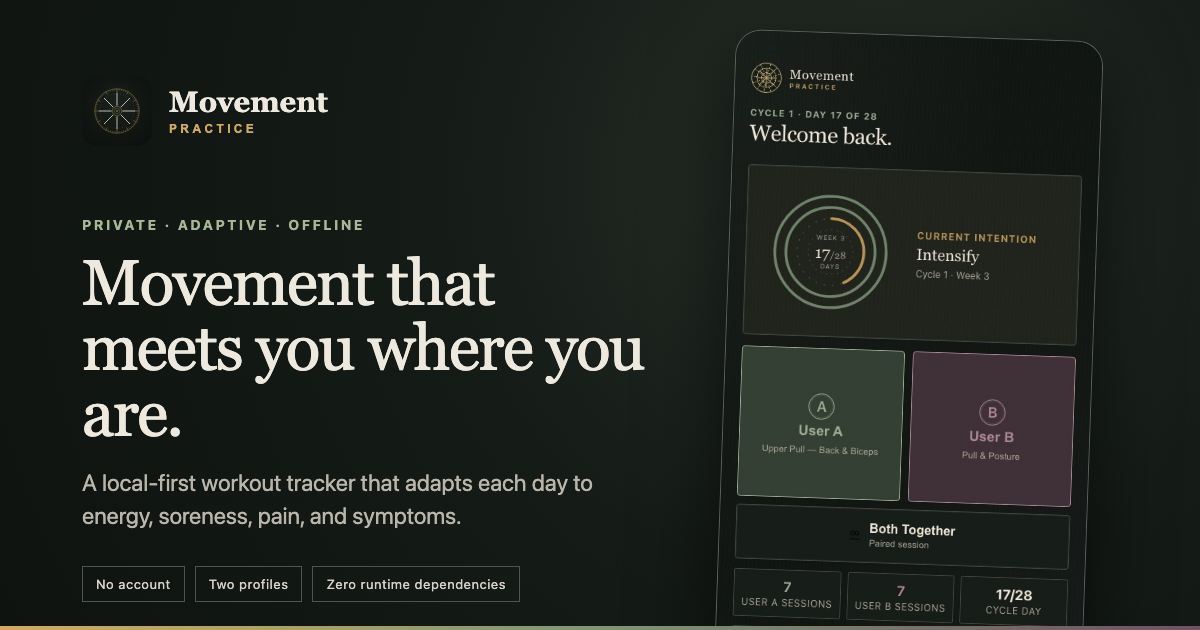
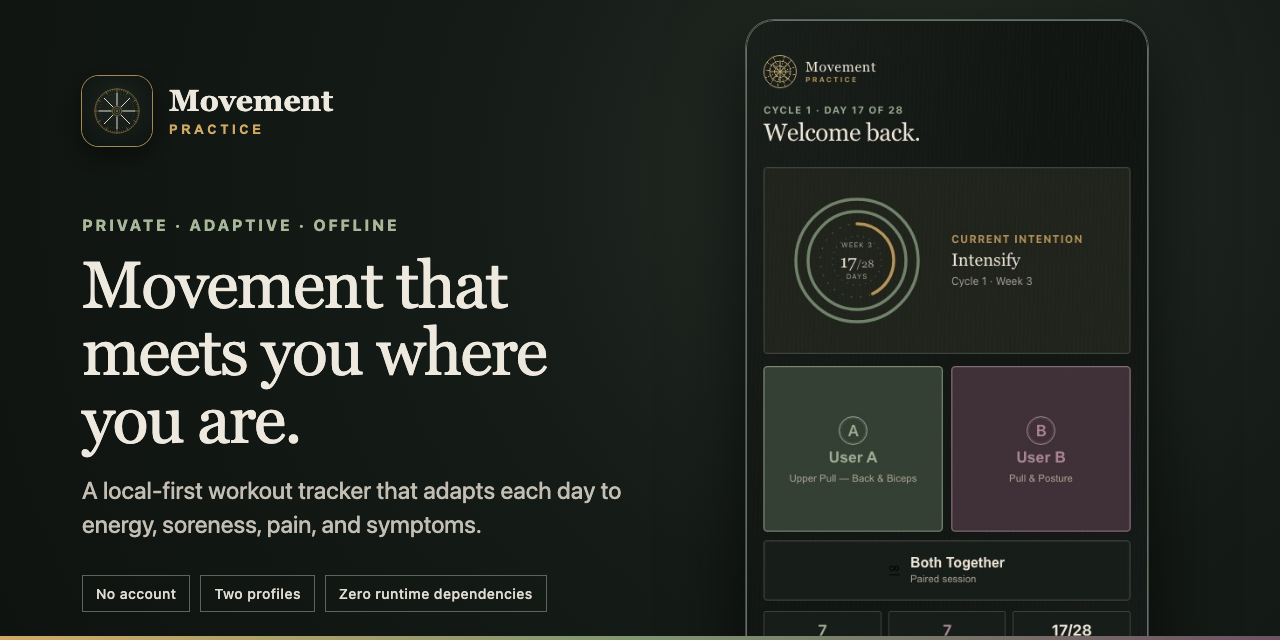
Refine social preview and align release notes
Improve social preview sharpness, device edges, and logo contrast; update sharing dimensions and document the distinct dashboard and workout cycle indicators.

diff --git a/index.html b/index.html
@@ -13,8 +13,8 @@
   <meta property="og:description" content="A local-first movement tracker that adapts each day's workout to how your body actually feels.">
   <meta property="og:url" content="https://eli-studio.github.io/movement-practice/">
   <meta property="og:image" content="https://eli-studio.github.io/movement-practice/docs/social-preview.png">
-  <meta property="og:image:width" content="1200">
-  <meta property="og:image:height" content="630">
+  <meta property="og:image:width" content="1280">
+  <meta property="og:image:height" content="640">
   <meta property="og:image:alt" content="Movement Practice dashboard and four-week cycle progress">
   <meta name="twitter:card" content="summary_large_image">
 

diff --git a/CHANGELOG.md b/CHANGELOG.md
@@ -10,12 +10,14 @@ and this project adheres to [Semantic Versioning](https://semver.org/spec/v2.0.0
 ### Added
 - A short origin story explaining the two-person, capacity-adaptive product constraints.
 - Reproducible current-version README screenshots with deterministic fictional sample data.
-- A generated 1200×630 social preview plus Open Graph, Twitter card, canonical URL, and page-description metadata.
+- A generated 1280×640 social preview plus Open Graph, Twitter card, canonical URL, and page-description metadata.
 - A fixed GitHub author link in the in-app About card.
 
 ### Changed
 - Replaced the README's implementation badge with the Release Checks workflow status.
 - Updated architecture, testing, and roadmap documentation for the current public demo.
+- Restored the home dashboard's concentric day-progress rings while keeping the
+  workout-screen cycle icon divided into four week quadrants.
 
 ## [0.6.1] — 2026-07-13
 